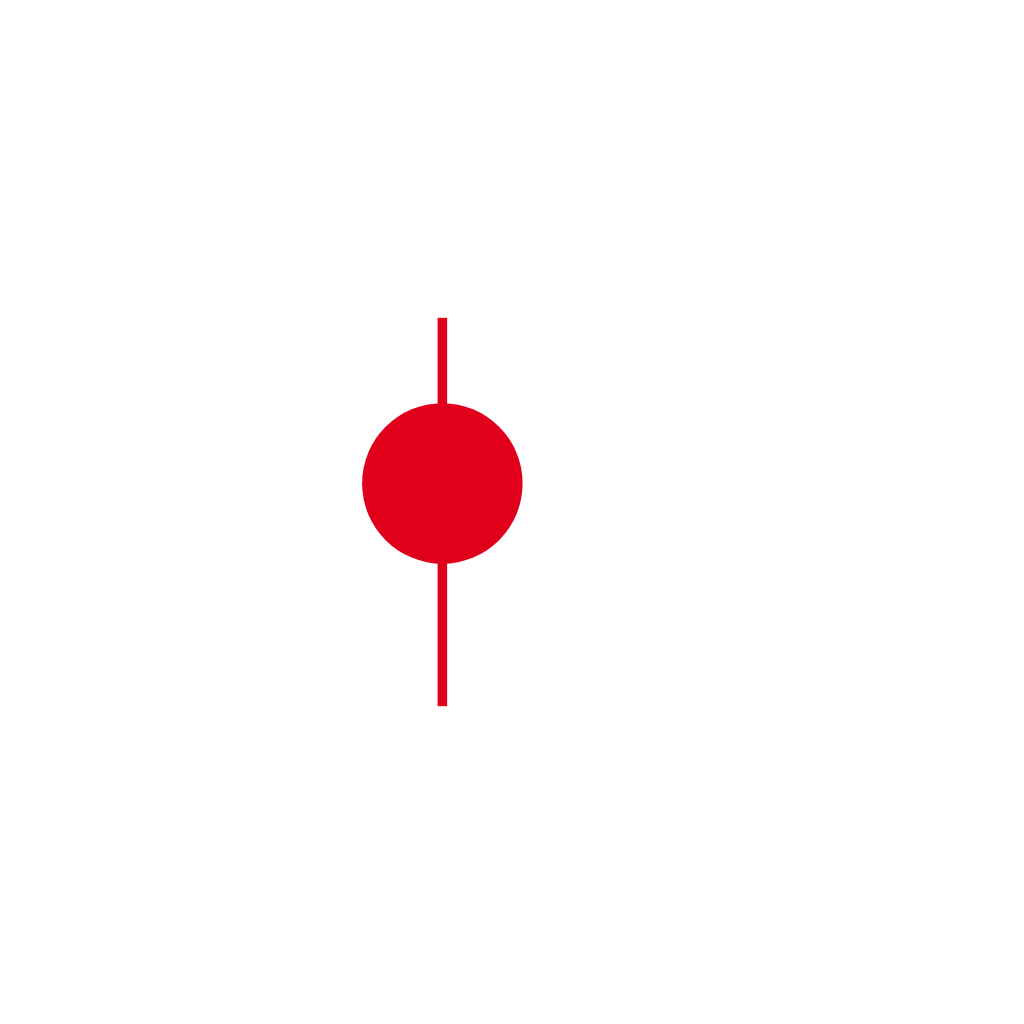
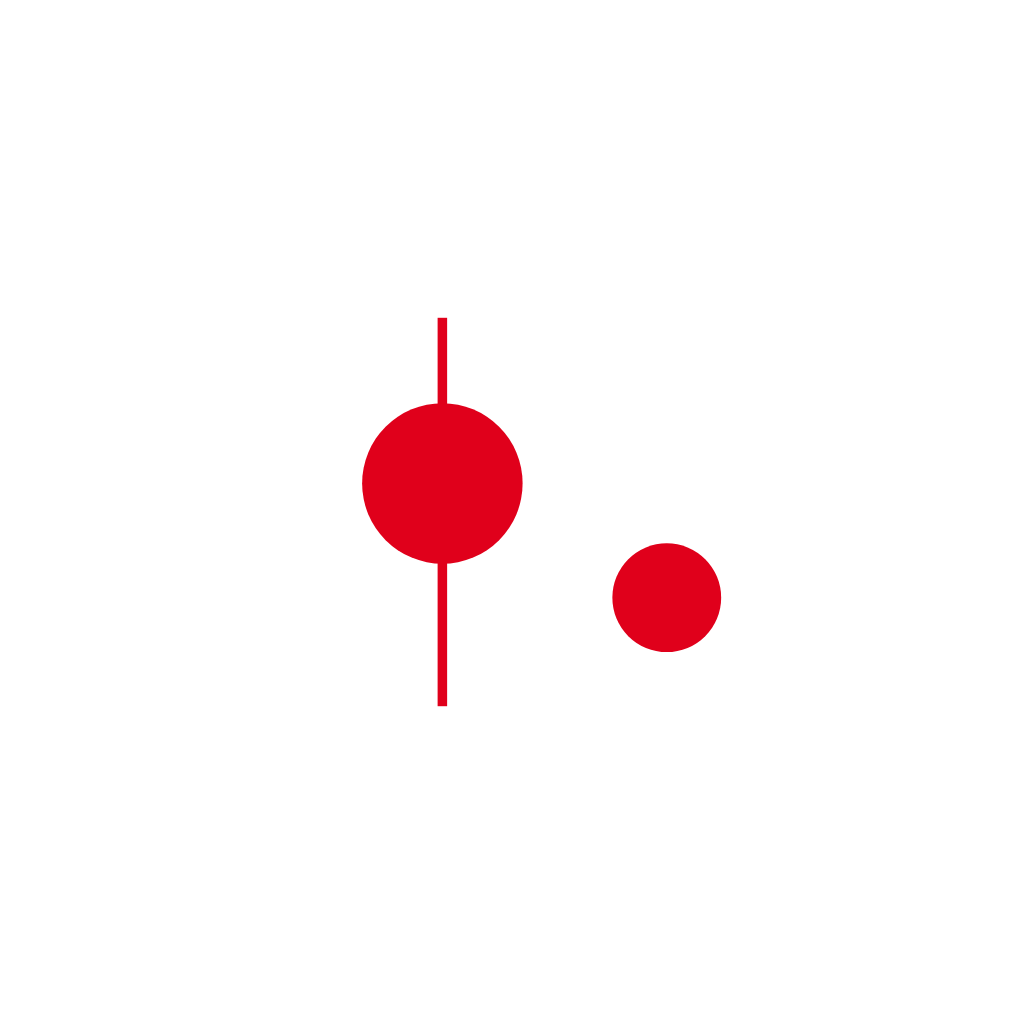
Toca Aí 2: nome, ID, ícone e armazenamento próprios
- App "Toca Aí 2" com ID br.com.tocaai2.app: instala ao lado do Toca Aí
- Ícone com duas bolinhas e abertura "toca aí 2"
- Progresso salvo em chaves próprias (não mistura com o app 1)
- Robô do APK publica TocaAi2.apk como versão 2.0.N

Claude-Session: https://claude.ai/code/session_014TkUTkW8waQiCU4jaKRQKK

Changed region(s): [[0.5938, 0.5312, 0.7188, 0.6562]]

diff --git a/app.js b/app.js
@@ -67,7 +67,7 @@ const IC = {
 /* ===== 2. Estado e armazenamento =====
    Todo o progresso fica num único objeto "S", salvo no aparelho
    (localStorage). Quando o app roda publicado no Claude, também na sua conta. */
-const LS_KEY = 'tocaai:v1';
+const LS_KEY = 'tocaai2:v1';
 function novoEstado() {
   return {
     v: 4, updatedAt: 0, xp: 0, licoes: {}, musicas: [], log: {}, recordes: {}, recordesMusica: {}, gravacoes: {}, apostilas: {},
@@ -113,7 +113,7 @@ const Store = {
       const [db, user] = await Promise.all([window.claude.use('db'), window.claude.use('user')]);
       const uid = user ? await user.id() : null;
       if (!db || !uid) return;
-      this.ref = db.doc('data/users/' + uid + '/toca-ai');
+      this.ref = db.doc('data/users/' + uid + '/toca-ai-2');
       const snap = await this.ref.get();
       if (snap.exists) {
         const remoto = JSON.parse(snap.data().json || '{}');
@@ -1027,7 +1027,7 @@ function configurarPWA() {
     if (outcome === 'accepted') btn.hidden = true;
     pedidoInstalar = null;
   });
-  window.addEventListener('appinstalled', () => { btn.hidden = true; toast('Toca Aí instalado'); });
+  window.addEventListener('appinstalled', () => { btn.hidden = true; toast('Toca Aí 2 instalado'); });
 }
 
 iniciarApp();

diff --git a/index.html b/index.html
@@ -11,7 +11,7 @@
 <link rel="apple-touch-icon" href="icones/apple-touch-icon.png">
 <meta name="mobile-web-app-capable" content="yes">
 <!--INICIO-->
-<title>Toca Aí</title>
+<title>Toca Aí 2</title>
 <meta name="claude:viewport-fit-sides" content="cover">
 <link rel="stylesheet" href="tema.css">
 <!--FIM-HEAD-->
@@ -22,7 +22,7 @@
 <!-- Cabeçalho: marca, dias seguidos e ajustes -->
 <header class="topo">
   <div class="topo-in">
-    <div class="marca"><span class="logo" aria-hidden="true"></span><h1>toca aí</h1></div>
+    <div class="marca"><span class="logo" aria-hidden="true"></span><h1>toca aí <span class="marca-2">2</span></h1></div>
     <div class="topo-dir">
       <button class="btn mini primario" id="instalar" hidden>Instalar</button>
       <span class="seq" title="Dias seguidos treinando"><svg viewBox="0 0 24 24" width="16" height="16" aria-hidden="true"><path d="M12 3c1.5 4 6 5.5 6 11a6 6 0 0 1-12 0c0-2.8 1.5-4.2 2.6-5.6.4 1.8 1.4 2.8 2.4 3.2C11 8.6 11 5.6 12 3z" fill="currentColor"/></svg><b id="seq">0</b><span class="sr">dias seguidos</span></span>

diff --git a/audio-detect.js b/audio-detect.js
@@ -330,7 +330,7 @@ function mediana(arr) { const s = [...arr].sort((a, b) => a - b); return s.lengt
 function msgSemMicrofone(err) {
   if (err && (err.name === 'NotAllowedError' || err.name === 'SecurityError'))
     return window.Capacitor
-      ? 'O microfone está bloqueado. Abra as configurações do Android, Apps, Toca Aí, Permissões, e permita o microfone.'
+      ? 'O microfone está bloqueado. Abra as configurações do Android, Apps, Toca Aí 2, Permissões, e permita o microfone.'
       : 'O microfone está bloqueado. Toque no cadeado da barra de endereço e permita o microfone.';
   if (err && err.name === 'NotFoundError') return 'Nenhum microfone encontrado neste aparelho.';
   return 'O microfone não está disponível aqui. No celular, use o app instalado (APK).';

diff --git a/sw.js b/sw.js
@@ -6,7 +6,7 @@
    - Quando há internet, busca a versão nova em segundo plano.
    Ao mudar qualquer arquivo do app, aumente o número da VERSAO.
    ========================================================= */
-const VERSAO = 'toca-ai-v9';
+const VERSAO = 'toca-ai-2-v1';
 const CLASSICO = [35, 38, 40, 42, 44, 45, 47, 49, 50, 52, 54, 55, 57, 59, 61, 63, 64, 66, 68, 69, 71, 73, 74, 76, 78, 79, 80, 81, 82];
 const ARQUIVOS = [
   './', './index.html', './tema.css', './fontes/Jost.woff', './manifest.webmanifest',

diff --git a/gravacao.js b/gravacao.js
@@ -18,7 +18,7 @@ const BancoAudio = {
   _db: null,
   abrir() {
     if (!this._db) this._db = new Promise((ok, erro) => {
-      const r = indexedDB.open('tocaai-audios', 1);
+      const r = indexedDB.open('tocaai2-audios', 1);
       r.onupgradeneeded = () => r.result.createObjectStore('gravacoes');
       r.onsuccess = () => ok(r.result);
       r.onerror = () => erro(r.error);
